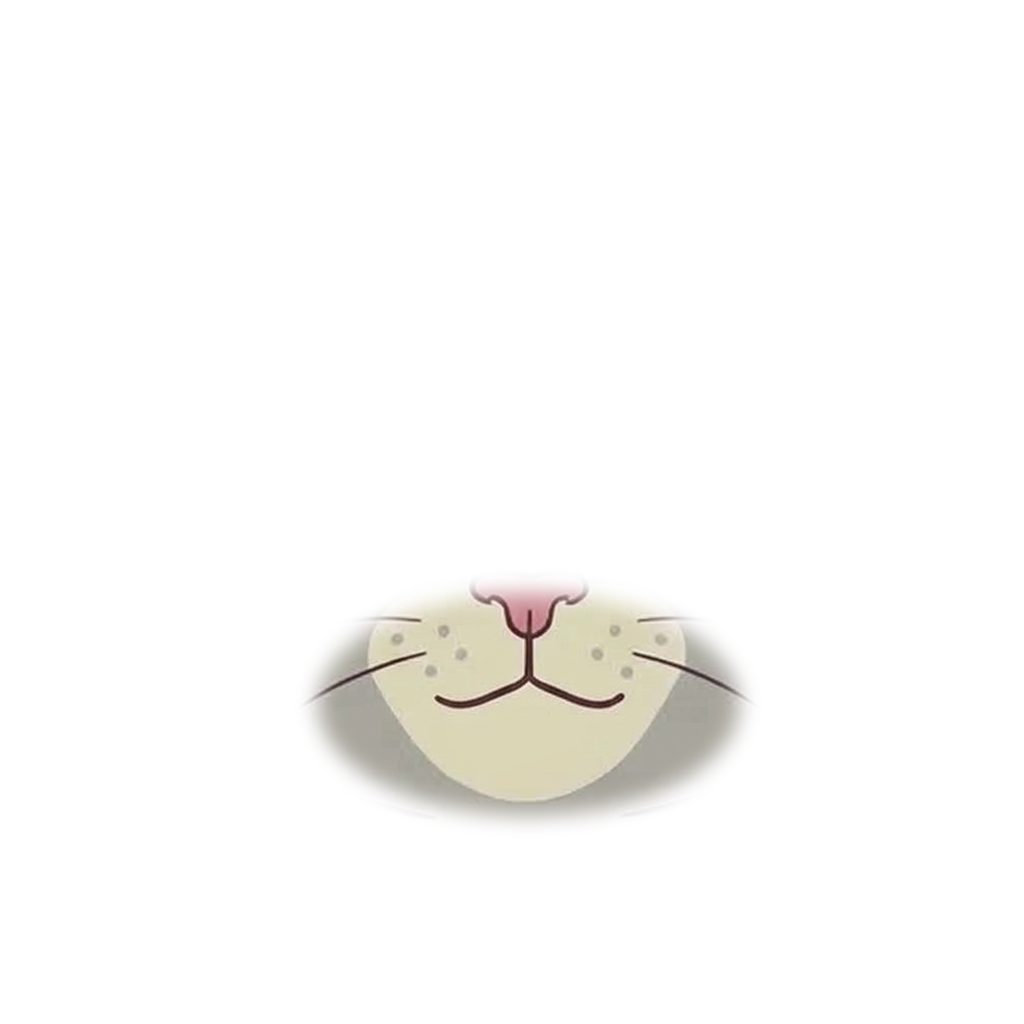
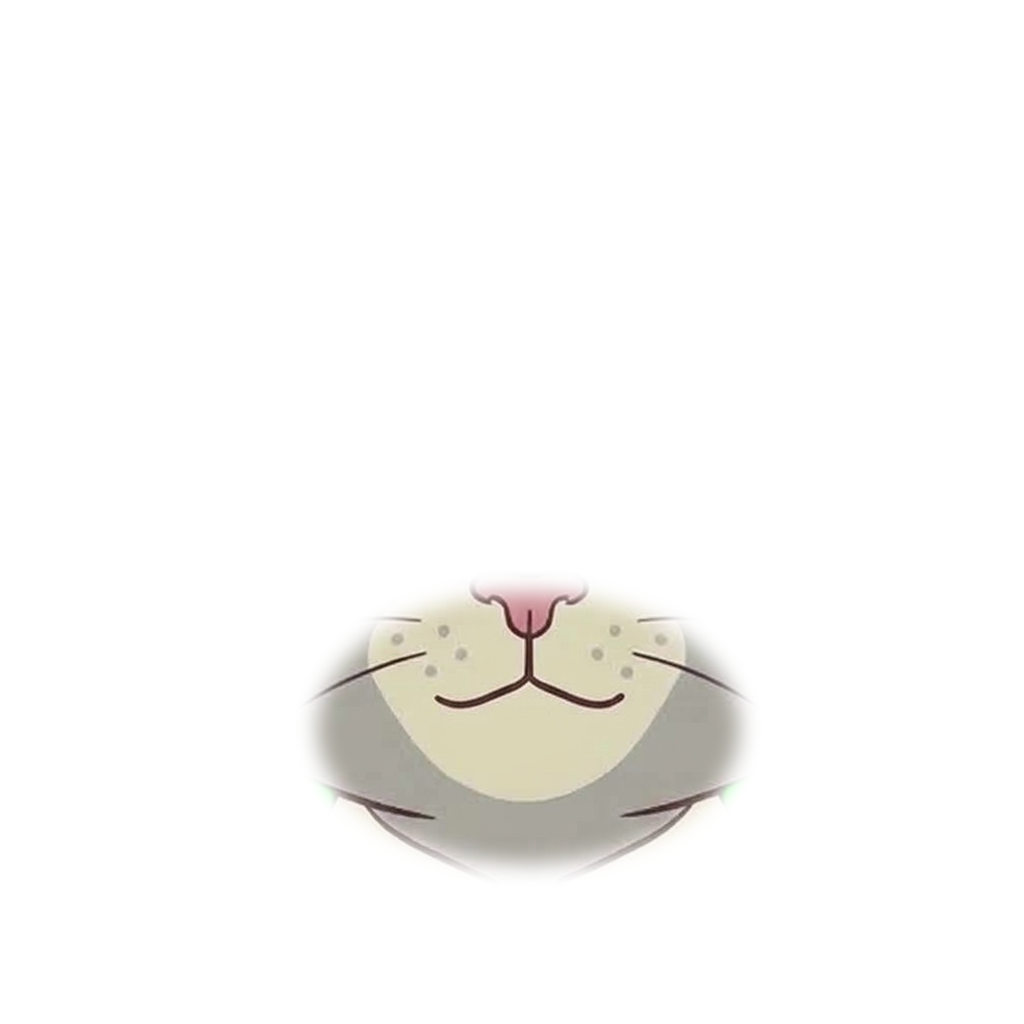
v4: boca muy abierta suelta; máscara de boca más alta
Claude-Session: https://claude.ai/code/session_01NybaBEBQ36CdbDeKLNGsjf

Changed region(s): [[0.2812, 0.7188, 0.75, 0.875], [0.6562, 0.5938, 0.7188, 0.6875], [0.3125, 0.5938, 0.375, 0.6875]]

diff --git a/factory/mascot/v4/parts_mouths_single.py b/factory/mascot/v4/parts_mouths_single.py
@@ -11,7 +11,7 @@ import parts as P
 def main():
     base = Image.open(os.path.join(V3, "base.png")).convert("RGBA"); size = base.size
     nb = P.nose_box(base, (300, 450, 724, 700)); ncx, nw = (nb[0] + nb[2]) / 2, nb[2] - nb[0]
-    mask = P.soft(size, (ncx - nw * 2.0, nb[1] + 0.35 * (nb[3] - nb[1]), ncx + nw * 2.0, nb[3] + nw * 1.75), 10)
+    mask = P.soft(size, (ncx - nw * 2.0, nb[1] + 0.35 * (nb[3] - nb[1]), ncx + nw * 2.0, nb[3] + nw * 2.2), 10)
     thumbs = []
     for f in sorted(glob.glob(os.path.join(S, "mouth_src_*.png"))):
         name = os.path.basename(f)[10:-4]
